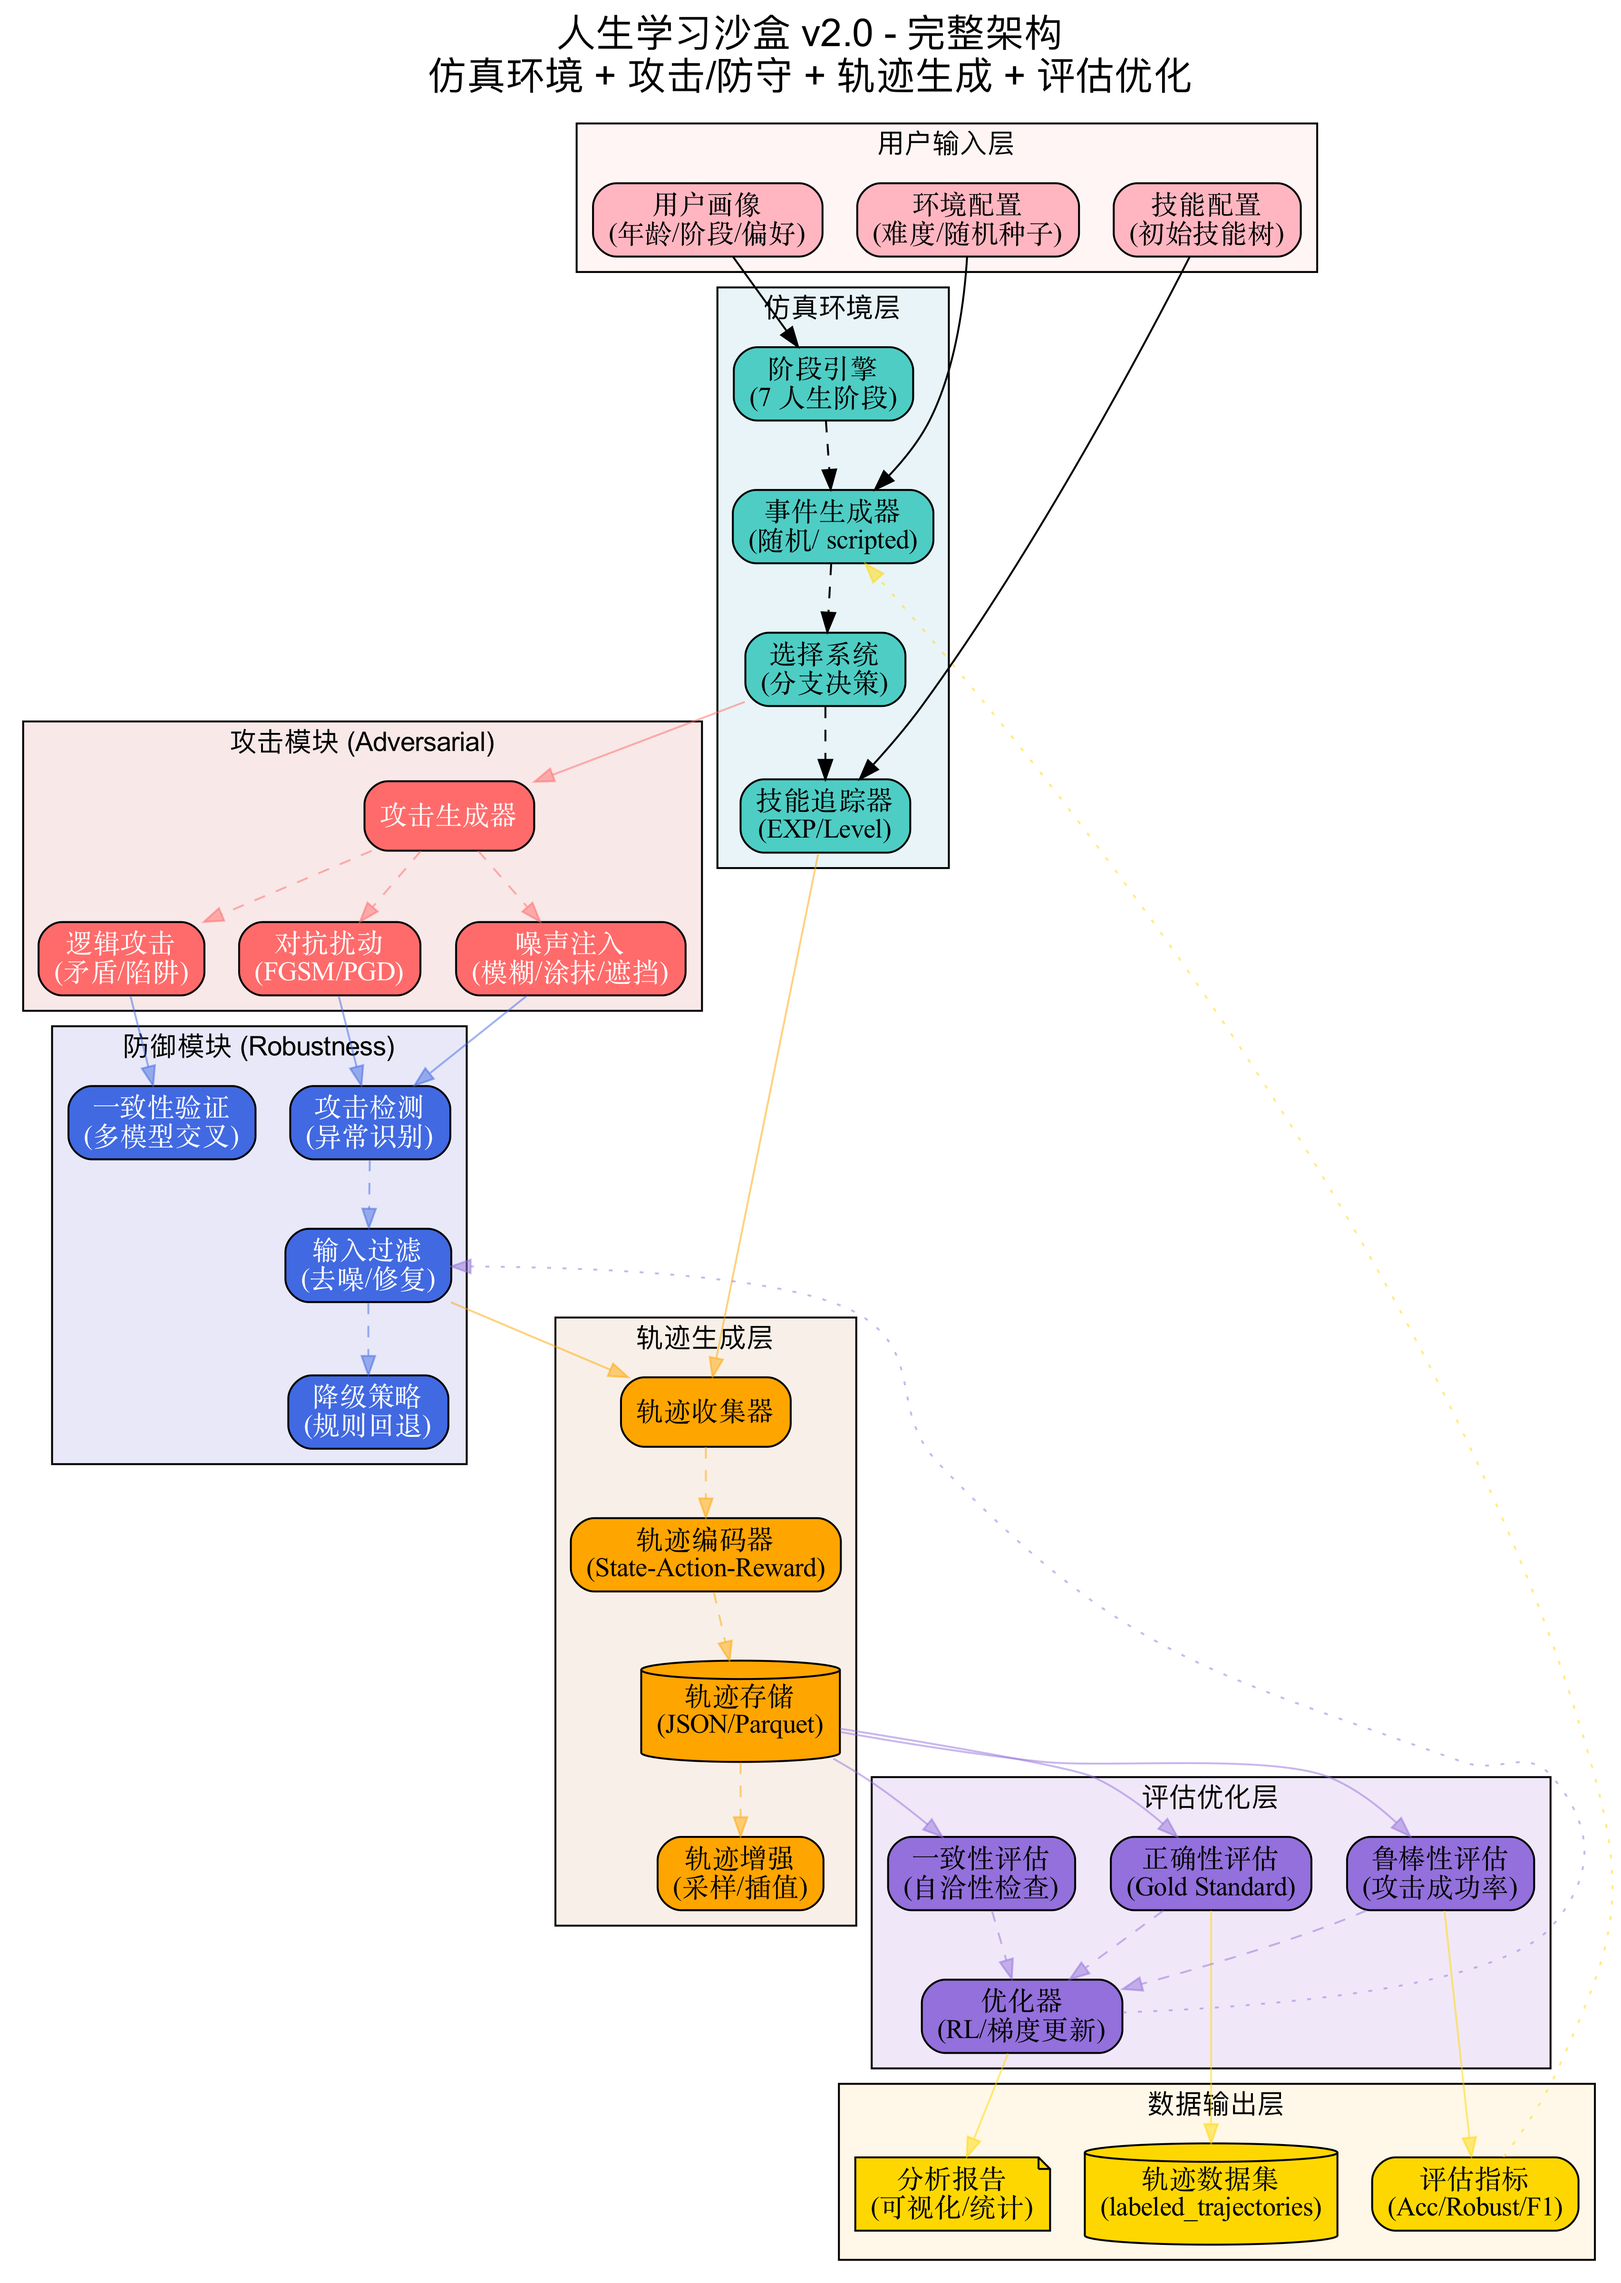
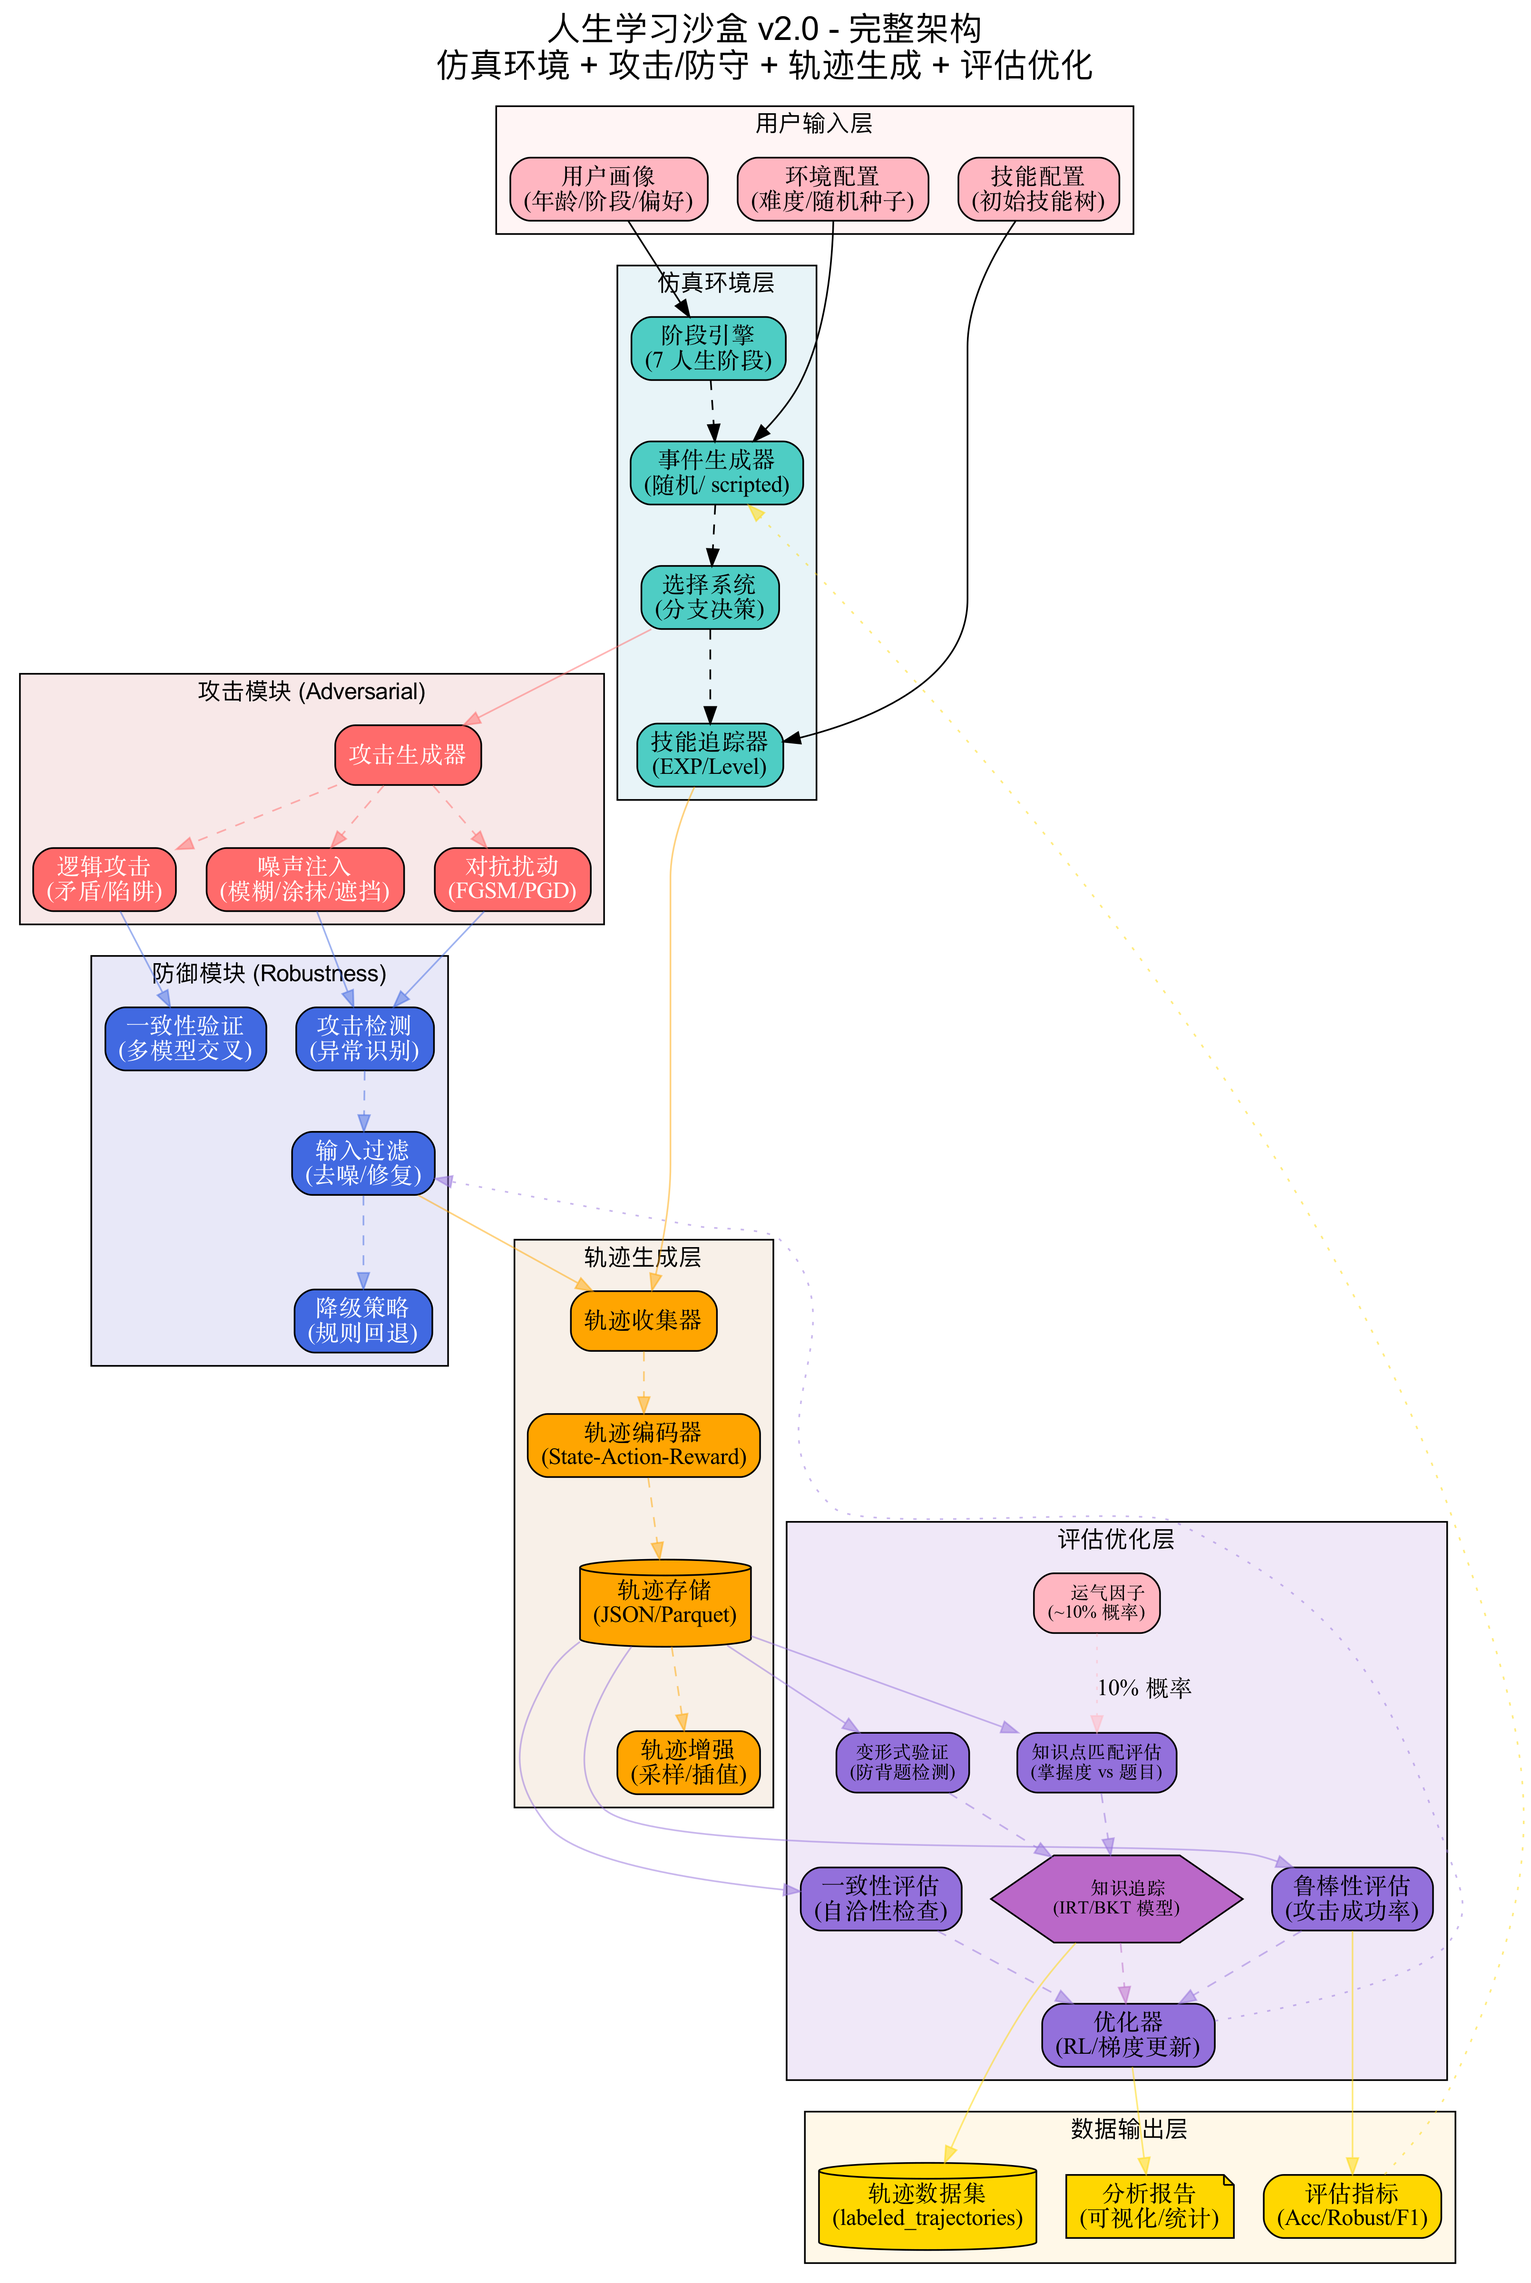
feat: 从第一性原理加入运气因子和防背题机制
**核心设计原则**：
1. 运气因子 (~10%)：承认考试蒙对选择题等随机因素
2. 知识点匹配评估：核心是判断掌握度 vs 题目匹配度
3. 变形式验证 (防背题)：同一知识点多道变式题
4. 真理解 vs 假理解：不懂装懂/题海战术背题不会通过

**架构更新**：
- 完整架构图：新增运气因子、知识点匹配评估、变形式验证、知识追踪 (IRT/BKT)
- 轨迹流水线：质量评估加入运气/知识点/变式三维度
- 数据存储：变式题库 + 知识追踪模型

**评估逻辑**：
- 知识点匹配但答错 → 可能是运气/状态问题 (10% 概率)
- 变式题不会做 → 判定为假理解 (背题/不懂装懂)
- 只有真理解才能通过轨迹评估

diff --git a/website/index.html b/website/index.html
@@ -173,12 +173,17 @@
             <h2 class="section-title">人生学习沙盒架构</h2>
             <p class="section-desc" style="text-align:center;color:var(--text-light);margin-bottom:3rem;max-width:800px;margin-left:auto;margin-right:auto;"><strong>事件驱动 × 选择分支 × 技能成长 × 攻守对抗</strong> —— 模拟人做决策的一生</p>
 
-            <div style="text-align:center;margin-bottom:2rem;color:var(--text-light);max-width:900px;margin-left:auto;margin-right:auto;">
+            <div style="text-align:center;margin-bottom:2rem;color:var(--text-light);max-width:1000px;margin-left:auto;margin-right:auto;">
                 <p><strong>5 层结构</strong>：人生阶段 → 事件系统 → 选择分支 → 技能成长 → 攻守对抗</p>
                 <p><strong>事件类型</strong>：学习事件、挑战事件、机遇事件、随机事件</p>
                 <p><strong>决策分支</strong>：学术路线、实践路线</p>
                 <p><strong>技能体系</strong>：学术能力 × 认知能力 × 社交能力 × 实践能力</p>
                 <p><strong>攻守对抗</strong>：攻击方 (噪声/逻辑) ↔ 防守方 (检测/缓解)</p>
+                <hr style="margin:1.5rem 0;border:none;border-top:1px solid #eee;">
+                <p><strong>🎲 运气因子（~10%）</strong>：承认考试蒙对等随机因素，但不主导评估</p>
+                <p><strong>📚 知识点匹配评估</strong>：判断学生掌握度与题目知识点的匹配程度</p>
+                <p><strong>🔄 变形式验证</strong>：同一知识点多道变式题，防止题海战术背题</p>
+                <p><strong>✅ 真理解 vs 假理解</strong>：不懂装懂/背题行为在轨迹中不会通过</p>
             </div>
 
             <!-- 技能体系图 (全宽) -->

diff --git a/generate_sandbox_diagrams.py b/generate_sandbox_diagrams.py
@@ -79,9 +79,12 @@ def generate_sandbox_architecture():
     with dot.subgraph(name='cluster_eval') as s:
         s.attr(label='评估优化层', style='filled', fillcolor=colors['eval'], fontsize='14')
 
-        s.node('eval_correctness', '正确性评估\n(Gold Standard)', shape='box', style='filled,rounded', fillcolor='#9370DB')
+        s.node('eval_luck', '🎲 运气因子\n(~10% 概率)', shape='box', style='filled,rounded', fillcolor='#FFB6C1', fontsize='11')
+        s.node('eval_knowledge', '知识点匹配评估\n(掌握度 vs 题目)', shape='box', style='filled,rounded', fillcolor='#9370DB', fontsize='11')
+        s.node('eval_variant', '变形式验证\n(防背题检测)', shape='box', style='filled,rounded', fillcolor='#9370DB', fontsize='11')
         s.node('eval_consistency', '一致性评估\n(自洽性检查)', shape='box', style='filled,rounded', fillcolor='#9370DB')
         s.node('eval_robustness', '鲁棒性评估\n(攻击成功率)', shape='box', style='filled,rounded', fillcolor='#9370DB')
+        s.node('knowledge_trace', '📊 知识追踪\n(IRT/BKT 模型)', shape='hexagon', style='filled', fillcolor='#BA68C8', fontsize='11')
         s.node('optimizer', '优化器\n(RL/梯度更新)', shape='box', style='filled,rounded', fillcolor='#9370DB')
 
     # === 第 7 层：数据输出 ===
@@ -130,17 +133,23 @@ def generate_sandbox_architecture():
     dot.edge('traj_storage', 'traj_augment', style='dashed', color='#FFA50080')
 
     # 轨迹 → 评估
-    dot.edge('traj_storage', 'eval_correctness', color='#9370DB80')
+    dot.edge('traj_storage', 'eval_knowledge', color='#9370DB80')
+    dot.edge('traj_storage', 'eval_variant', color='#9370DB80')
     dot.edge('traj_storage', 'eval_consistency', color='#9370DB80')
     dot.edge('traj_storage', 'eval_robustness', color='#9370DB80')
 
+    # 运气因子影响评估
+    dot.edge('eval_luck', 'eval_knowledge', style='dotted', color='#FFB6C180', label='10% 概率')
+
     # 评估内部
-    dot.edge('eval_correctness', 'optimizer', style='dashed', color='#9370DB80')
+    dot.edge('eval_knowledge', 'knowledge_trace', style='dashed', color='#9370DB80')
+    dot.edge('eval_variant', 'knowledge_trace', style='dashed', color='#9370DB80')
+    dot.edge('knowledge_trace', 'optimizer', style='dashed', color='#BA68C880')
     dot.edge('eval_consistency', 'optimizer', style='dashed', color='#9370DB80')
     dot.edge('eval_robustness', 'optimizer', style='dashed', color='#9370DB80')
 
     # 评估 → 输出
-    dot.edge('eval_correctness', 'dataset', color='#FFD70080')
+    dot.edge('knowledge_trace', 'dataset', color='#FFD70080')
     dot.edge('eval_robustness', 'metrics', color='#FFD70080')
     dot.edge('optimizer', 'report', color='#FFD70080')
 
@@ -252,17 +261,26 @@ def generate_trajectory_pipeline():
     # 阶段 3: 质量评估
     with dot.subgraph(name='cluster_quality') as s:
         s.attr(label='🔍 质量评估', style='filled', fillcolor='#E0E0FF', fontsize='14')
-        s.node('quality_complete', '完整性检查', shape='box', style='filled,rounded', fillcolor='#9370DB')
-        s.node('quality_correct', '正确性验证\n(Gold Label)', shape='box', style='filled,rounded', fillcolor='#9370DB')
-        s.node('quality_diverse', '多样性评估\n(覆盖率)', shape='box', style='filled,rounded', fillcolor='#9370DB')
-        s.node('quality_filter', '质量过滤', shape='diamond', style='filled', fillcolor='#9370DB')
+
+        s.node('quality_luck', '🎲 运气因子\n(~10% 概率)', shape='box', style='filled,rounded',
+               fillcolor='#FFB6C1', fontsize='10')
+        s.node('quality_knowledge', '知识点匹配评估\n(掌握度 vs 题目)', shape='box',
+               style='filled,rounded', fillcolor='#9370DB', fontsize='10')
+        s.node('quality_variant', '变形式验证\n(防背题检测)', shape='box',
+               style='filled,rounded', fillcolor='#9370DB', fontsize='10')
+        s.node('quality_filter', '质量过滤\n(真理解/假理解)', shape='diamond',
+               style='filled', fillcolor='#9370DB', fontsize='10')
+
+        s.edge('quality_luck', 'quality_knowledge', style='dotted', color='#FF69B480')
+        s.edge('quality_knowledge', 'quality_filter')
+        s.edge('quality_variant', 'quality_filter')
 
     # 阶段 4: 数据存储
     with dot.subgraph(name='cluster_store') as s:
-        s.attr(label='💾 数据存储', style='filled', fillcolor='#FFF8E0', fontsize='14')
+        s.attr(label='💾 数据存储 + 知识追踪', style='filled', fillcolor='#FFF8E0', fontsize='14')
         s.node('store_train', '训练集\n(80%)', shape='cylinder', style='filled', fillcolor='#FFD700')
-        s.node('store_val', '验证集\n(10%)', shape='cylinder', style='filled', fillcolor='#FFD700')
-        s.node('store_test', '测试集\n(10%)', shape='cylinder', style='filled', fillcolor='#FFD700')
+        s.node('store_knowledge', '知识追踪\n(IRT/BKT 模型)', shape='hexagon', style='filled', fillcolor='#BA68C8')
+        s.node('store_variant', '变式题库\n(同一知识点多题)', shape='cylinder', style='filled', fillcolor='#FFD700')
 
     # 阶段 5: 批改优化
     with dot.subgraph(name='cluster_optimize') as s:
@@ -281,21 +299,17 @@ def generate_trajectory_pipeline():
     dot.edge('encode_sar', 'encode_feature')
     dot.edge('encode_feature', 'encode_label')
 
-    dot.edge('encode_label', 'quality_complete')
-    dot.edge('encode_label', 'quality_correct')
-    dot.edge('encode_label', 'quality_diverse')
-
-    dot.edge('quality_complete', 'quality_filter')
-    dot.edge('quality_correct', 'quality_filter')
-    dot.edge('quality_diverse', 'quality_filter')
+    dot.edge('encode_label', 'quality_knowledge')
+    dot.edge('encode_label', 'quality_variant')
+    dot.edge('encode_label', 'quality_luck')
 
     dot.edge('quality_filter', 'store_train')
-    dot.edge('quality_filter', 'store_val')
-    dot.edge('quality_filter', 'store_test')
+    dot.edge('quality_filter', 'store_knowledge')
+    dot.edge('quality_filter', 'store_variant')
 
     dot.edge('store_train', 'opt_model')
-    dot.edge('store_val', 'opt_train')
-    dot.edge('store_test', 'opt_eval')
+    dot.edge('store_knowledge', 'opt_eval')
+    dot.edge('store_variant', 'opt_eval')
 
     dot.edge('opt_eval', 'opt_deploy')
     dot.edge('opt_deploy', 'opt_model', constraint='false', style='dashed', label='模型更新')

diff --git a/README.md b/README.md
@@ -59,7 +59,14 @@
 
 ![轨迹流水线](docs/trajectory_pipeline.png)
 
-数据采集 → 轨迹编码 (SAR) → 质量评估 → 数据存储 (训练/验证/测试) → 批改优化
+**核心设计原则（第一性原理）**：
+
+1. **运气因子（~10%）**：承认考试中蒙对选择题等随机因素，但不主导评估
+2. **知识点匹配评估**：核心是判断学生掌握度与题目知识点的匹配程度
+3. **变形式验证（防背题）**：同一知识点多道变式题，防止题海战术背题
+4. **真理解 vs 假理解**：不懂装懂/背题行为在轨迹中不会通过
+
+**流程**：数据采集 → 轨迹编码 (SAR) → 质量评估 (运气/知识点/变式) → 数据存储 + 知识追踪 (IRT/BKT) → 批改优化
 
 ### 学习成长决策树
 
